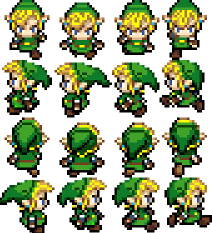
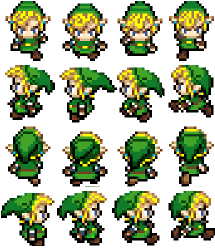
Spore zmiany w animacji

diff --git a/projekt/Firebolt.cpp b/projekt/Firebolt.cpp
@@ -9,7 +9,8 @@ Firebolt::Firebolt(sf::Vector2f start_pos,sf::Texture &tex)
 	alive = true;
 	this->setTexture(tex);
 	this->setPosition(start_pos);
-	//this->setTextureRect(sf::IntRect(0, 0, 55, 60));
+	this->setTextureRect(sf::IntRect(0, 0, 48, 48));
+	key = LastKey::Free;
 }
 
 
@@ -20,9 +21,65 @@ Firebolt::~Firebolt()
 bool Firebolt::Update(float ElapsedTime, Game& game){
 	float x = this->getPosition().x;
 	float y = this->getPosition().y;
-	if (y < game.App.getSize().y ) 
-		y = y + speed*ElapsedTime;
-	else alive = false;
+
+	if (key != LastKey::Free) {
+		switch (key) {
+			case LastKey::Up:
+				if (y < game.App.getSize().y)
+					y = y - speed*ElapsedTime;
+				else {
+					alive = false;
+					key = LastKey::Free;
+				}break;
+			case LastKey::Down:
+				if (y < game.App.getSize().y)
+					y = y + speed*ElapsedTime;
+				else {
+					alive = false;
+					key = LastKey::Free;
+				}break;
+			case LastKey::Right:
+				if (x < game.App.getSize().x)
+					x = x + speed*ElapsedTime;
+				else {
+					alive = false;
+					key = LastKey::Free;
+				}break;
+			case LastKey::Left:
+				if (x < game.App.getSize().x)
+					x = x - speed*ElapsedTime;
+				else {
+					alive = false;
+					key = LastKey::Free;
+				}break;
+		}
+	}
+	else {
+
+		if (sf::Keyboard::isKeyPressed(sf::Keyboard::Left)) {
+			//if (x > game.App.getSize().x)
+			x = x - speed*ElapsedTime;
+			this->setTextureRect(sf::IntRect(0, 0, 48, 48));
+			key = LastKey::Left;
+		}else if (sf::Keyboard::isKeyPressed(sf::Keyboard::Up)) {
+			//if (y < game.App.getSize().y)
+				y = y - speed*ElapsedTime;
+				this->setTextureRect(sf::IntRect(48, 0 , 48, 48));
+			key = LastKey::Up;
+		}else if (sf::Keyboard::isKeyPressed(sf::Keyboard::Down)) {
+			//if (y < game.App.getSize().y)
+				y = y + speed*ElapsedTime;
+				this->setTextureRect(sf::IntRect(96, 0, 48, 48));
+			key = LastKey::Down;
+		}else if (sf::Keyboard::isKeyPressed(sf::Keyboard::Right)) {
+			//if (x < game.App.getSize().x)
+				x = x + speed*ElapsedTime;
+				this->setTextureRect(sf::IntRect(144,0, 48, 48));
+				key = LastKey::Right;
+		}
+		alive = true;
+	}
+	
 	this->setPosition(x, y);
 	return alive;
 }

diff --git a/projekt/player.h b/projekt/player.h
@@ -1,21 +1,26 @@
 #ifndef PLAYER_H
 #include "game.h"
+#include "Animation.h"
+#include <memory>
 class Player : public sf::Sprite
 {
 public:
 	Player();
 	~Player();
 
-	bool Update(Game &game,float elapsedTime);
+	bool Update(Game &game,float elapsedTime, float playerTime);
 	void Render(sf::RenderWindow &App);
 	void DrecreaseHP(int amount);
 
 	int getHP();
 private:
+	std::shared_ptr<Animation> animation;
 	sf::Texture tex;
 	float speed;
 	int hp;
 	bool alive;
+	bool isFirst;
+	int row ;
 };
 
 

diff --git a/projekt/Enemy.h b/projekt/Enemy.h
@@ -1,6 +1,10 @@
 #ifndef ENEMY_H
 #define ENEMY_H
+
 #include "game.h"
+#include "Animation.h"
+#include <memory>
+#define BufferSize 450
 class Enemy: public sf::Sprite
 {
 public:
@@ -29,6 +33,11 @@ private:
 	int hp;
 	int damage;
 	int level;
+	std::shared_ptr<Animation> animation;
+	int row;
+	int animationBuffer;
+	bool flagAnimation;
+
 };
 
 #endif

diff --git a/projekt/Firebolt.h b/projekt/Firebolt.h
@@ -2,6 +2,7 @@
 #define FIREBOLT_H
 
 #include "game.h"
+enum LastKey {Free,Down,Up,Left,Right};
 class Firebolt: public sf::Sprite
 {
 public:
@@ -17,6 +18,7 @@ private:
 	int damege;
 	float speed;
 	bool alive;
+	LastKey key;
 };
 
 #endif // !FIREBOLT_H

diff --git a/projekt/playState.h b/projekt/playState.h
@@ -25,9 +25,11 @@ private:
 
 	sf::Clock frameClock;
 	sf::Clock shootClock;
+	sf::Clock playerClock;
 	//Enemy testEnemy;
 	float elapsedTime;
 	float shootBuffer;
+	float playerTime;
 	sf::Texture enemyTex;
 	sf::Texture boltTex;
 
